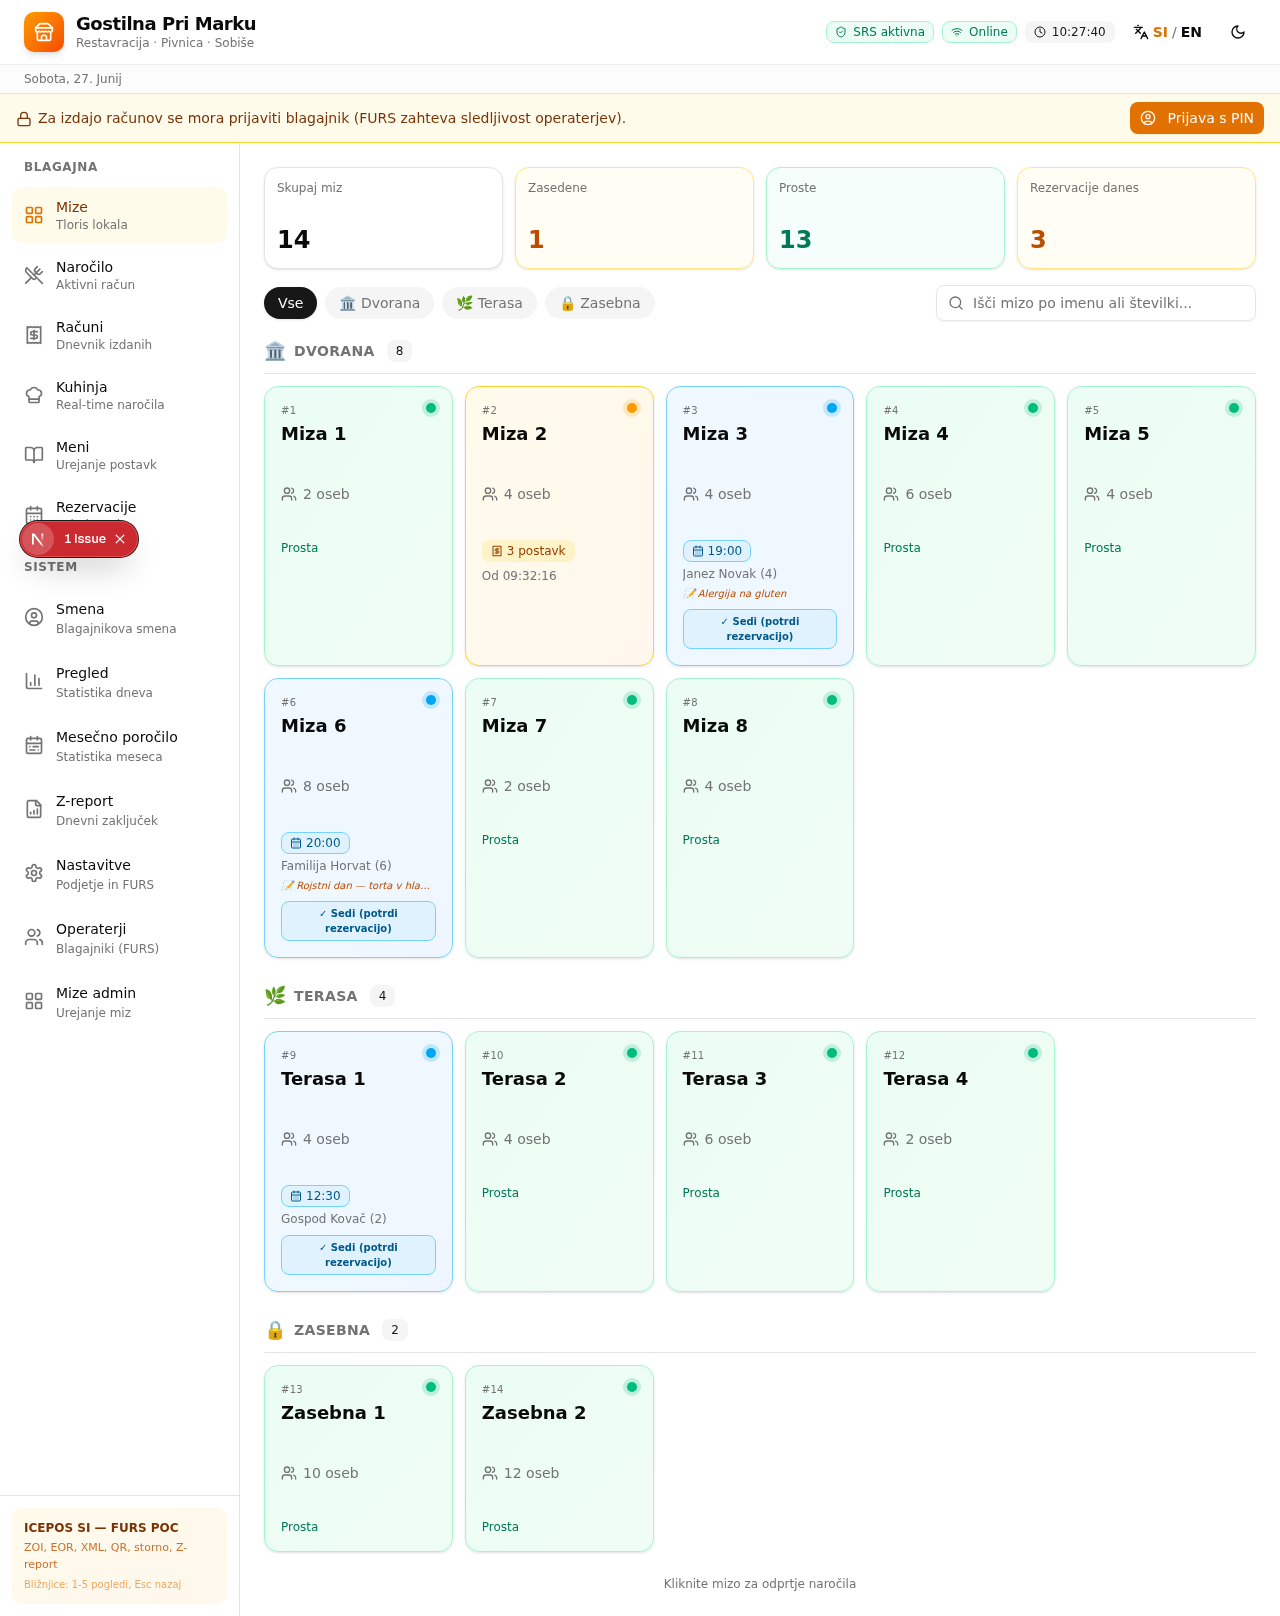
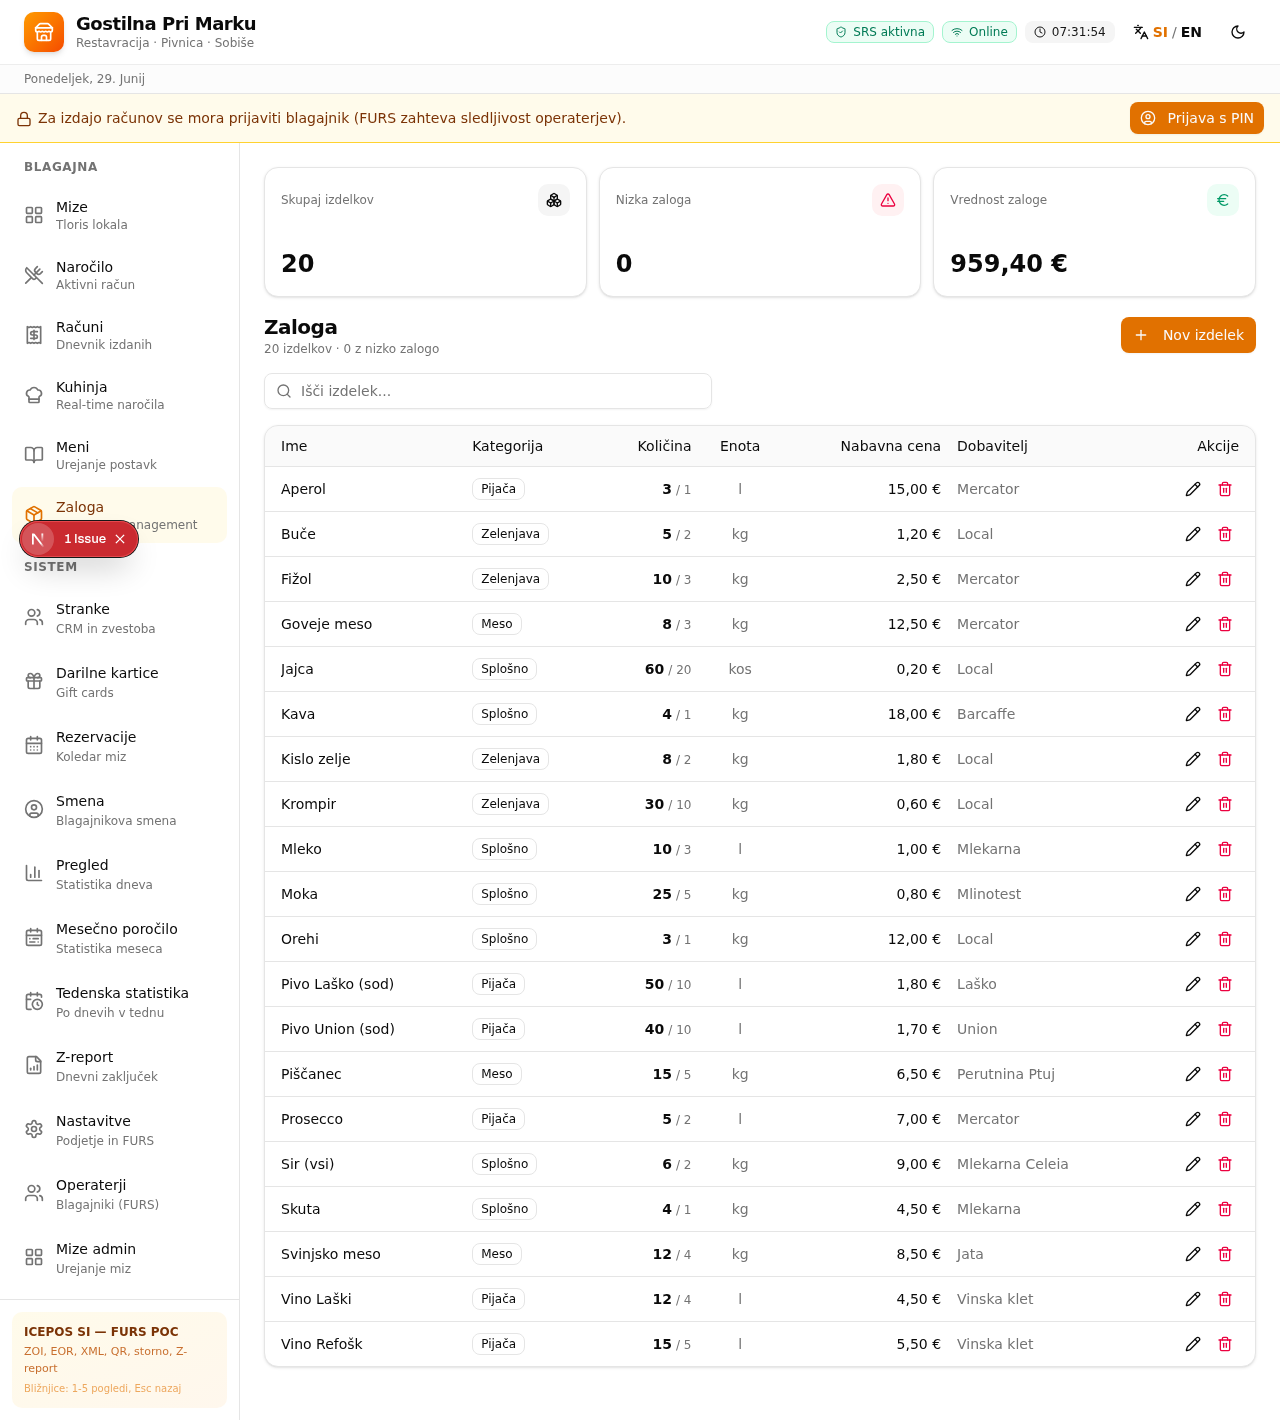
55c3737e-8067-4016-a74d-b57789c1ff94

diff --git a/src/components/pos/pos-footer.tsx b/src/components/pos/pos-footer.tsx
@@ -18,6 +18,8 @@ import {
   CalendarRange,
   Users,
   CalendarClock,
+  Package,
+  Gift,
 } from "lucide-react";
 import {
   Sheet,
@@ -44,6 +46,9 @@ export function PosFooter() {
     { id: "reservations" as const, label: "Rezervacije", desc: "Koledar miz", icon: CalendarDays },
     { id: "shift" as const, label: "Smena", desc: "Blagajnikova smena", icon: UserCircle },
     { id: "menu" as const, label: "Meni", desc: "Urejanje postavk", icon: BookOpen },
+    { id: "inventory" as const, label: "Zaloga", desc: "Inventory management", icon: Package },
+    { id: "customers" as const, label: "Stranke", desc: "CRM in zvestoba", icon: Users },
+    { id: "gift-cards" as const, label: "Darilne kartice", desc: "Gift cards", icon: Gift },
     { id: "tables-admin" as const, label: "Mize admin", desc: "Urejanje miz", icon: LayoutGrid },
     { id: "operators" as const, label: "Operaterji", desc: "Blagajniki (FURS)", icon: Users },
     { id: "weekly" as const, label: "Tedenska statistika", desc: "Po dnevih v tednu", icon: CalendarClock },
@@ -52,7 +57,7 @@ export function PosFooter() {
     { id: "settings" as const, label: "Nastavitve", desc: "Podjetje in FURS", icon: Settings },
   ];
 
-  const isMoreActive = ["menu", "zreport", "settings", "kitchen", "reservations", "shift", "monthly", "weekly", "operators", "tables-admin"].includes(activeView);
+  const isMoreActive = ["menu", "zreport", "settings", "kitchen", "reservations", "shift", "monthly", "weekly", "operators", "tables-admin", "inventory", "customers", "gift-cards"].includes(activeView);
 
   return (
     <footer className="sticky bottom-0 z-40 border-t border-border bg-card/95 backdrop-blur supports-[backdrop-filter]:bg-card/80 md:hidden print:hidden">
@@ -169,6 +174,24 @@ export function PosSidebar() {
       icon: ChefHat,
     },
     { id: "menu" as const, label: "Meni", desc: "Urejanje postavk", icon: BookOpen },
+    {
+      id: "inventory" as const,
+      label: "Zaloga",
+      desc: "Inventory management",
+      icon: Package,
+    },
+    {
+      id: "customers" as const,
+      label: "Stranke",
+      desc: "CRM in zvestoba",
+      icon: Users,
+    },
+    {
+      id: "gift-cards" as const,
+      label: "Darilne kartice",
+      desc: "Gift cards",
+      icon: Gift,
+    },
     {
       id: "reservations" as const,
       label: "Rezervacije",

diff --git a/src/app/page.tsx b/src/app/page.tsx
@@ -20,6 +20,9 @@ import { ZReportView } from "@/components/pos/z-report-view";
 import { SettingsView } from "@/components/pos/settings-view";
 import { OperatorsAdminView } from "@/components/pos/operators-admin-view";
 import { TablesAdminView } from "@/components/pos/tables-admin-view";
+import { InventoryView } from "@/components/pos/inventory-view";
+import { CustomerView } from "@/components/pos/customer-view";
+import { GiftCardsView } from "@/components/pos/gift-cards-view";
 import { PaymentDialog } from "@/components/pos/payment-dialog";
 import { PinLoginDialog, getStoredOperator, type Operator } from "@/components/pos/pin-login";
 import { Toaster, toast } from "sonner";
@@ -147,6 +150,9 @@ export default function Home() {
             {activeView === "settings" && <SettingsView />}
             {activeView === "operators" && <OperatorsAdminView />}
             {activeView === "tables-admin" && <TablesAdminView />}
+            {activeView === "inventory" && <InventoryView />}
+            {activeView === "customers" && <CustomerView />}
+            {activeView === "gift-cards" && <GiftCardsView />}
           </div>
         </main>
       </div>

diff --git a/src/stores/pos-store.ts b/src/stores/pos-store.ts
@@ -32,7 +32,10 @@ interface PosState {
     | "zreport"
     | "settings"
     | "operators"
-    | "tables-admin";
+    | "tables-admin"
+    | "inventory"
+    | "customers"
+    | "gift-cards";
   setActiveView: (
     v:
       | "tables"
@@ -49,6 +52,9 @@ interface PosState {
       | "settings"
       | "operators"
       | "tables-admin"
+      | "inventory"
+      | "customers"
+      | "gift-cards"
   ) => void;
 
   // Selected table

diff --git a/worklog.md b/worklog.md
@@ -897,3 +897,31 @@ Stage Summary:
   5. ✅ Customer selection v PaymentDialog (loyalty integracija)
 - ICEPOS SI zdaj pokriva VSE ključne Toast POS funkcije + FURS + alergeni + hranilna vrednost + dvojezičnost
 - GitHub repo posodobljen: https://github.com/markec12345678/ICEPOS
+
+---
+Task ID: 28
+Agent: Z.ai Code (main)
+Task: README posodobitev + obnova navigacije + screenshots.
+
+Work Log:
+- Odkril da so inventory/customers/gift-cards nav itemi manjkali v pos-footer.tsx
+  (izgubljeni med rsync operacijami)
+- Ročno dodal Package + Gift icon import v pos-footer.tsx
+- Dodal inventory/customers/gift-cards v moreNav (mobile) in navItems (desktop sidebar)
+- Posodobil isMoreActive array z novimi view-i
+- Posodobil pos-store.ts z 3 novimi view tipi
+- Posodobil page.tsx z importi + render za InventoryView, CustomerView, GiftCardsView
+- Lint: 0 errorjev
+- Nove screenshots: inventory (30), customers (31), gift cards (32), dashboard (09), mize (01), meni (23)
+- README popolnoma posodobljen:
+  * 16 POS pogledov + 2 javni strani
+  * Inventory, CRM/Loyalty, Gift Cards, Recipe Costing sekcije
+  * Alergeni (EU 1169), hranilna vrednost, dvojezičnost
+  * Online naročanje, sledenje, takeaway
+  * 11 Prisma modelov, 30+ API route-ov, 20 komponent, 32 screenshotov
+- Push na GitHub: commit e26d20d
+
+Stage Summary:
+- Vsi nav itemi obnovljeni in funkcionalni
+- README popolnoma aktualen z vsemi funkcijami
+- GitHub repo posodobljen: https://github.com/markec12345678/ICEPOS
